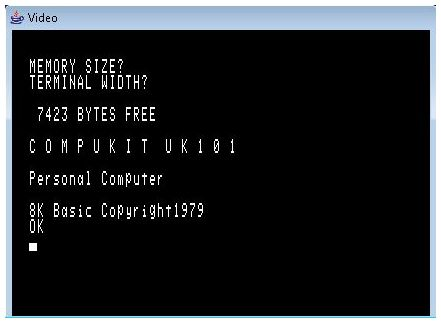
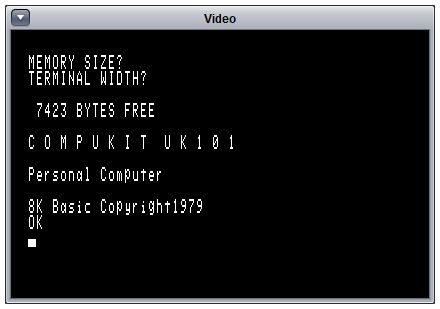
Tidy some of the docs

diff --git a/docs/extras.html b/docs/extras.html
@@ -37,23 +37,26 @@ address $DE80.</p>
 <p>The available formats are listed in the table below.
 For use with the UK101 formats <code>0</code>, <code>2</code> or
 <code>10</code> are likely to be the most useful.</p>
-<table frame="box" rules="all" cellspacing="0" cellpadding="5">
-<tr><th>Rows</th><th>Columns</th><th/><th>Normal</th><th>Inverted</th></tr>
-<tr><td>32</td><td>64</td><td/>
-<td><code>0</code> or <code>1</code></td><td><code>128</code> or <code>129</code></td></tr>
-<tr><td>32</td><td>48</td><td/>
-<td><code>2</code> or <code>3</code></td><td><code>130</code> or <code>131</code></td></tr>
-<tr><td>32</td><td>32</td><td>top</td><td><code>4</code></td><td><code>132</code></td></tr>
-<tr><td>32</td><td>32</td><td>bottom</td><td><code>5</code></td><td><code>133</code></td></tr>
-<tr><td>32</td><td>24</td><td>top</td><td><code>6</code></td><td><code>134</code></td></tr>
-<tr><td>32</td><td>24</td><td>bottom</td><td><code>7</code></td><td><code>135</code></td></tr>
-<tr><td>16</td><td>64</td><td>top</td><td><code>8</code></td><td><code>136</code></td></tr>
-<tr><td>16</td><td>64</td><td>bottom</td><td><code>9</code></td><td><code>137</code></td></tr>
-<tr><td>16</td><td>48</td><td>top</td><td><code>10</code></td><td><code>138</code></td></tr>
-<tr><td>16</td><td>48</td><td>bottom</td><td><code>11</code></td><td><code>139</code></td></tr>
-<tr><td colspan="2">illegal!</td><td/>
-<td><code>12</code> to <code>15</code></td><td><code>140</code> to <code>143</code></td></tr>
-</table>
+<table><tr>
+<td><table frame="box" rules="all" cellspacing="0" cellpadding="5">
+<tr><th>Normal</th><th>Inverted</th><th/><th>Rows</th><th>Columns</th><th/></tr>
+<tr><td><code>0</code> or <code>1</code><td><code>128</code> or <code>129</code></td>
+<td/><td>32</td><td>64</td><td/></tr>
+<tr><td><code>2</code> or <code>3</code><td><code>130</code> or <code>131</code></td>
+<td/><td>32</td><td>48</td><td/></tr>
+<tr><td><code>4</code></td><td><code>132</code></td><td/><td>32</td><td>32</td><td>top</td></tr>
+<tr><td><code>5</code></td><td><code>133</code></td><td/><td>32</td><td>32</td><td>bottom</td></tr>
+<tr><td><code>6</code></td><td><code>134</code></td><td/><td>32</td><td>24</td><td>top</td></tr>
+<tr><td><code>7</code></td><td><code>135</code></td><td/><td>32</td><td>24</td><td>bottom</td></tr>
+<tr><td><code>8</code></td><td><code>136</code></td><td/><td>16</td><td>64</td><td>top</td></tr>
+<tr><td><code>9</code></td><td><code>137</code></td><td/><td>16</td><td>64</td><td>bottom</td></tr>
+<tr><td><code>10</code></td><td><code>138</code></td><td/><td>16</td><td>48</td><td>top</td></tr>
+<tr><td><code>11</code></td><td><code>139</code></td><td/><td>16</td><td>48</td><td>bottom</td></tr>
+<tr><td><code>12</code> to <code>15</code></td><td><code>140</code> to <code>143</code></td><td/>
+<td colspan="3" align="center">illegal!</td></tr>
+</table></td>
+<td><img src="image/sek32.jpg"/></td><td><img src="image/sek16.jpg"/></td>
+</tr></table>
 <p>The BASIC program listed in the Premier Publications documentation that
 enables simple switching of the screen formats is provided in the
 <a href="../samples/basic/sek.basic"><samp>samples/basic/sek.basic</samp></a>.</p>

diff --git a/src/uk101/Main.java b/src/uk101/Main.java
@@ -166,8 +166,8 @@ public class Main implements Runnable {
             Class<?> ac = Class.forName("com.apple.eawt.Application");
             Method ga = ac.getMethod("getApplication");
             Method si = ac.getMethod("setDockIconImage", Image.class);
-            Image icon48 = Toolkit.getDefaultToolkit().createImage(Main.class.getResource("icon/uk101-48.png"));
-            si.invoke(ga.invoke(null), icon48);
+            Image icon96 = Toolkit.getDefaultToolkit().createImage(Main.class.getResource("icon/uk101-96.png"));
+            si.invoke(ga.invoke(null), icon96);
         } catch (Exception e) {
         }
 

diff --git a/src/uk101/view/VideoView.java b/src/uk101/view/VideoView.java
@@ -50,6 +50,10 @@ public class VideoView extends ViewFrame {
             setFormat(video.rows, cfg.getScreenWidth(), cfg.getScreenOffset(), video.cols, false);
         }
 
+        content = getContentPane();
+        content.setLayout(new BoxLayout(content, BoxLayout.Y_AXIS));
+        content.setBackground(VideoScreen.SCREEN_BLACK);
+
         video.setView(this);
     }
 
